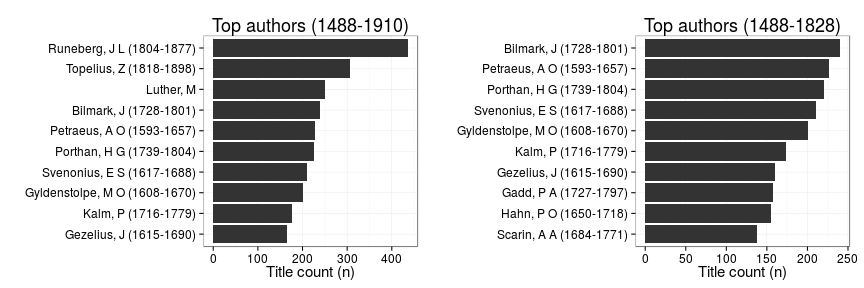
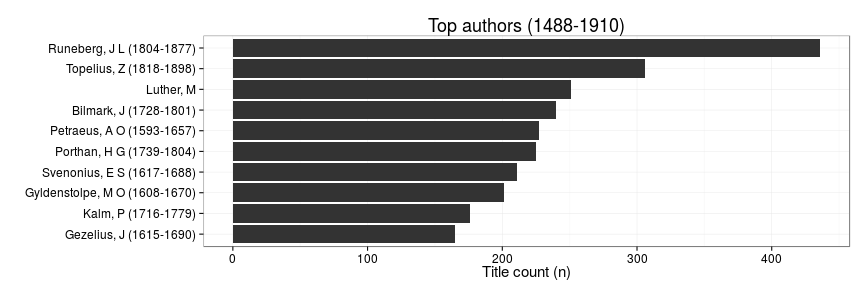
ok

diff --git a/inst/examples/20151209-HelsinkiDH.md b/inst/examples/20151209-HelsinkiDH.md
@@ -14,4 +14,4 @@ This markdown document contains presentation material for [Digital History in Fi
 
 
 
-![plot of chunk 20150912-HDH-Author](figure/20150912-HDH-Author-1.png) 
+![plot of chunk 20150912-HDH-Author](figure/20150912-HDH-Author-1.png) ![plot of chunk 20150912-HDH-Author](figure/20150912-HDH-Author-2.png) 
